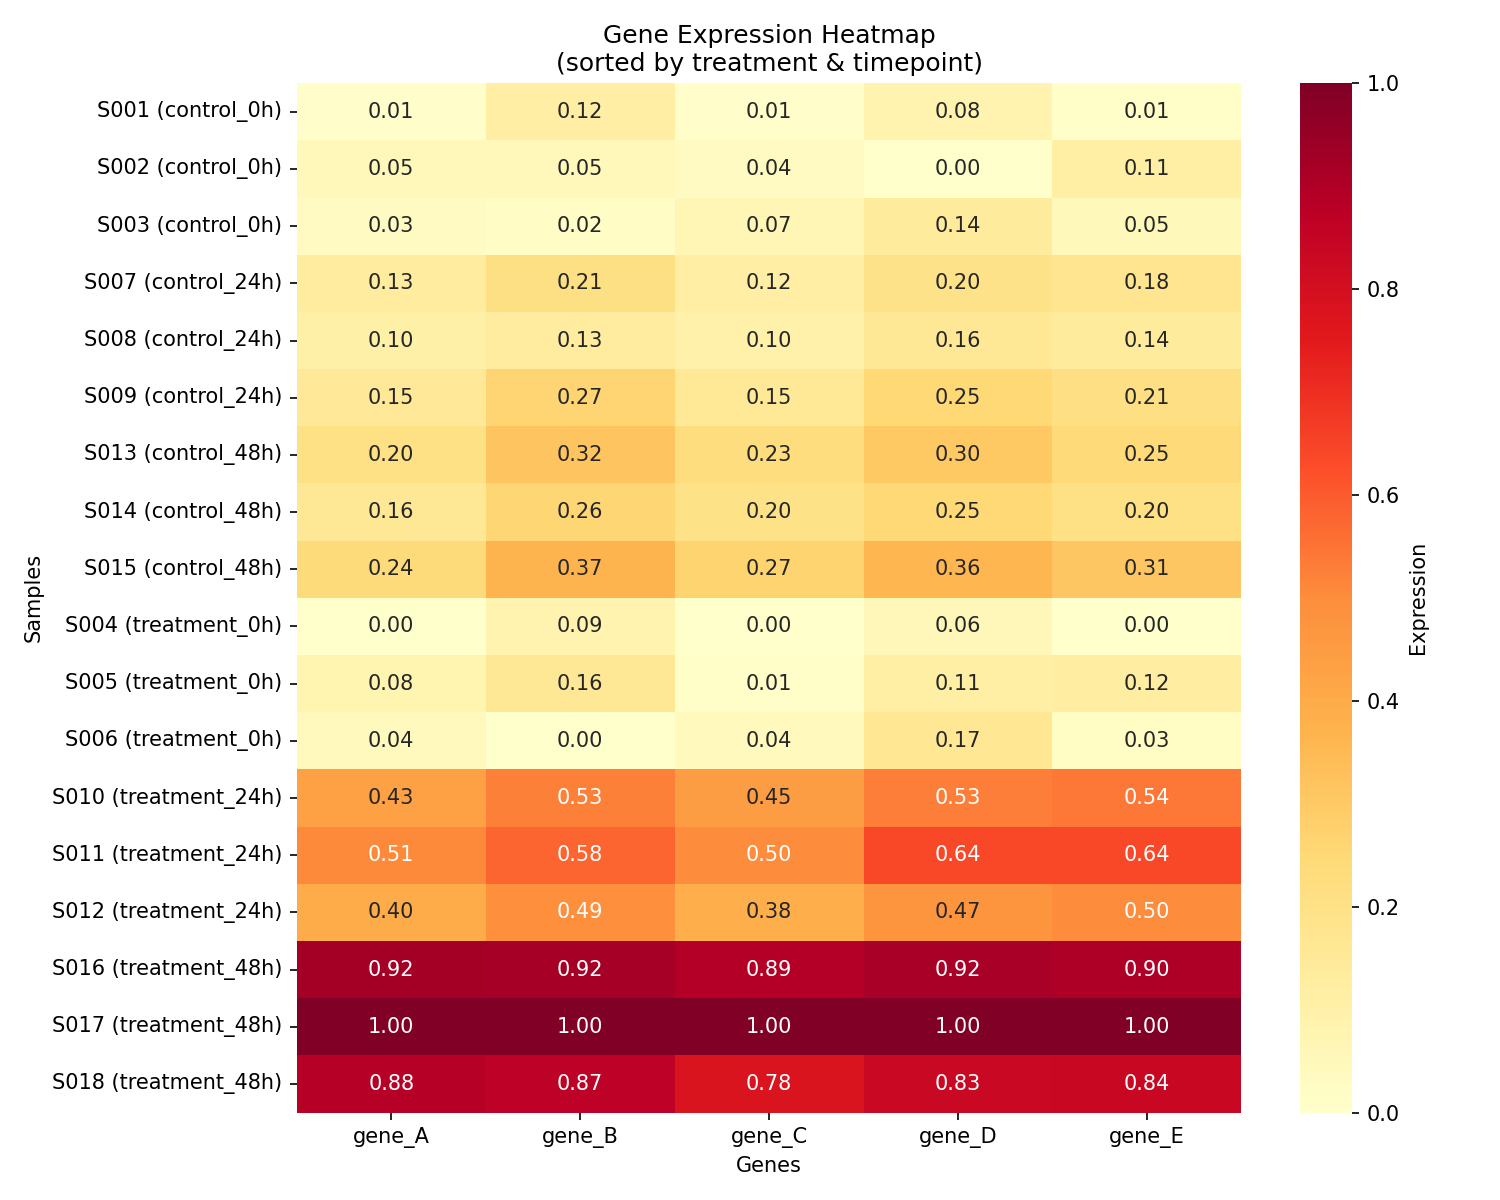
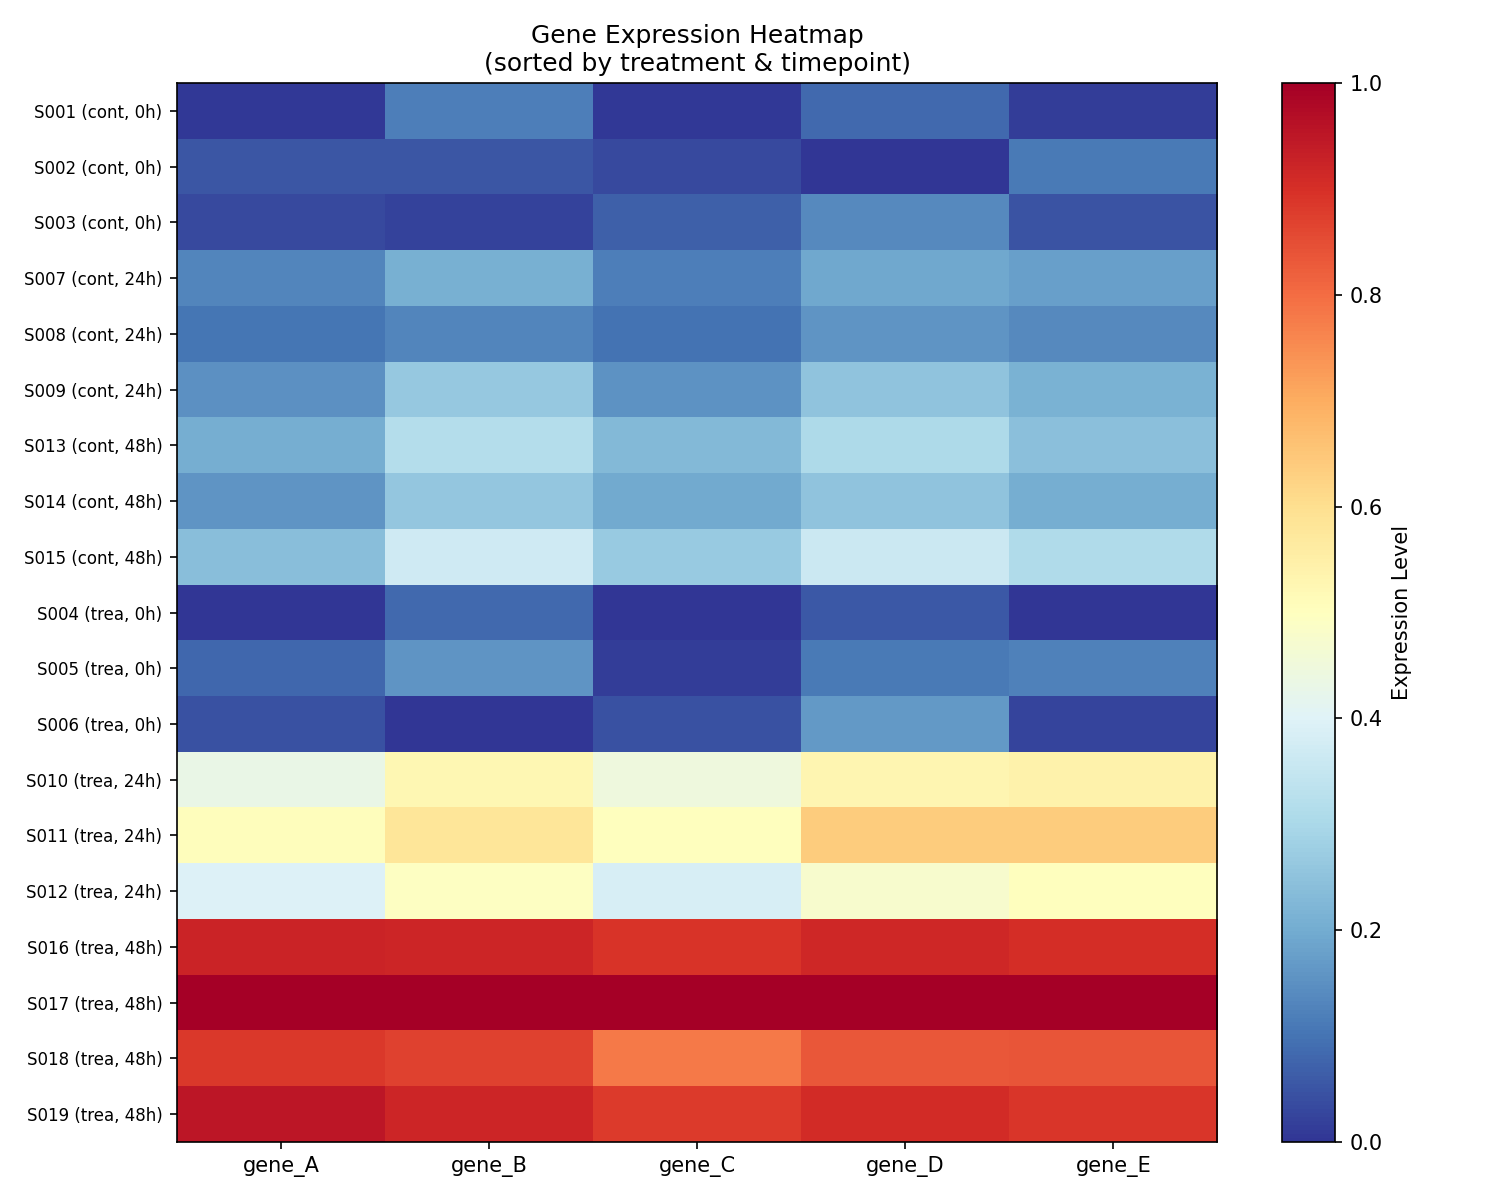
feat: Add steno:new-session and validate session graph
New command:
- steno:new-session: Archives current session to graph.json, starts fresh

Validated features:
- steno:stale: Detects when input files changed after outputs created
- steno:refresh: Re-runs stale nodes in dependency order
- steno:new-session: Archives session, preserves bookmarks
- steno:history: Shows current + archived sessions

Test artifacts updated:
- samples.csv: Added S019 sample for stale detection test
- heatmap.png, heatmap_clustered.png: Regenerated with 19 samples
- graph.json: Contains archived session with 3 nodes

🤖 Generated with [Claude Code](https://claude.com/claude-code)

diff --git a/.claude/skills/steno/SKILL.md b/.claude/skills/steno/SKILL.md
@@ -265,6 +265,25 @@ Bookmarks: baseline-pca, initial-dx
 Stale: 0
 ```
 
+### steno:new-session
+
+Archive current session and start fresh.
+
+```
+> steno:new-session
+
+Archived session sess_20241227 (4 nodes) to graph.json
+Starting new session: sess_20241228_143022
+```
+
+This command:
+1. Reads `current-session.json`
+2. Appends the session to `graph.json` sessions array
+3. Creates fresh `current-session.json` with new session ID
+4. Preserves all bookmarks
+
+Use this when starting a new logical unit of work.
+
 ---
 
 ## File Structure

diff --git a/CHEATSHEET.md b/CHEATSHEET.md
@@ -78,6 +78,7 @@ stat:ttest @a.csv @b.csv  # Statistical test
 | `steno:refresh` | Re-run stale commands |
 | `steno:bookmark <name>` | Save last as reference |
 | `steno:status` | Show session status |
+| `steno:new-session` | Archive and start fresh |
 | `steno:clear` | Clear current session |
 
 ## Tips
